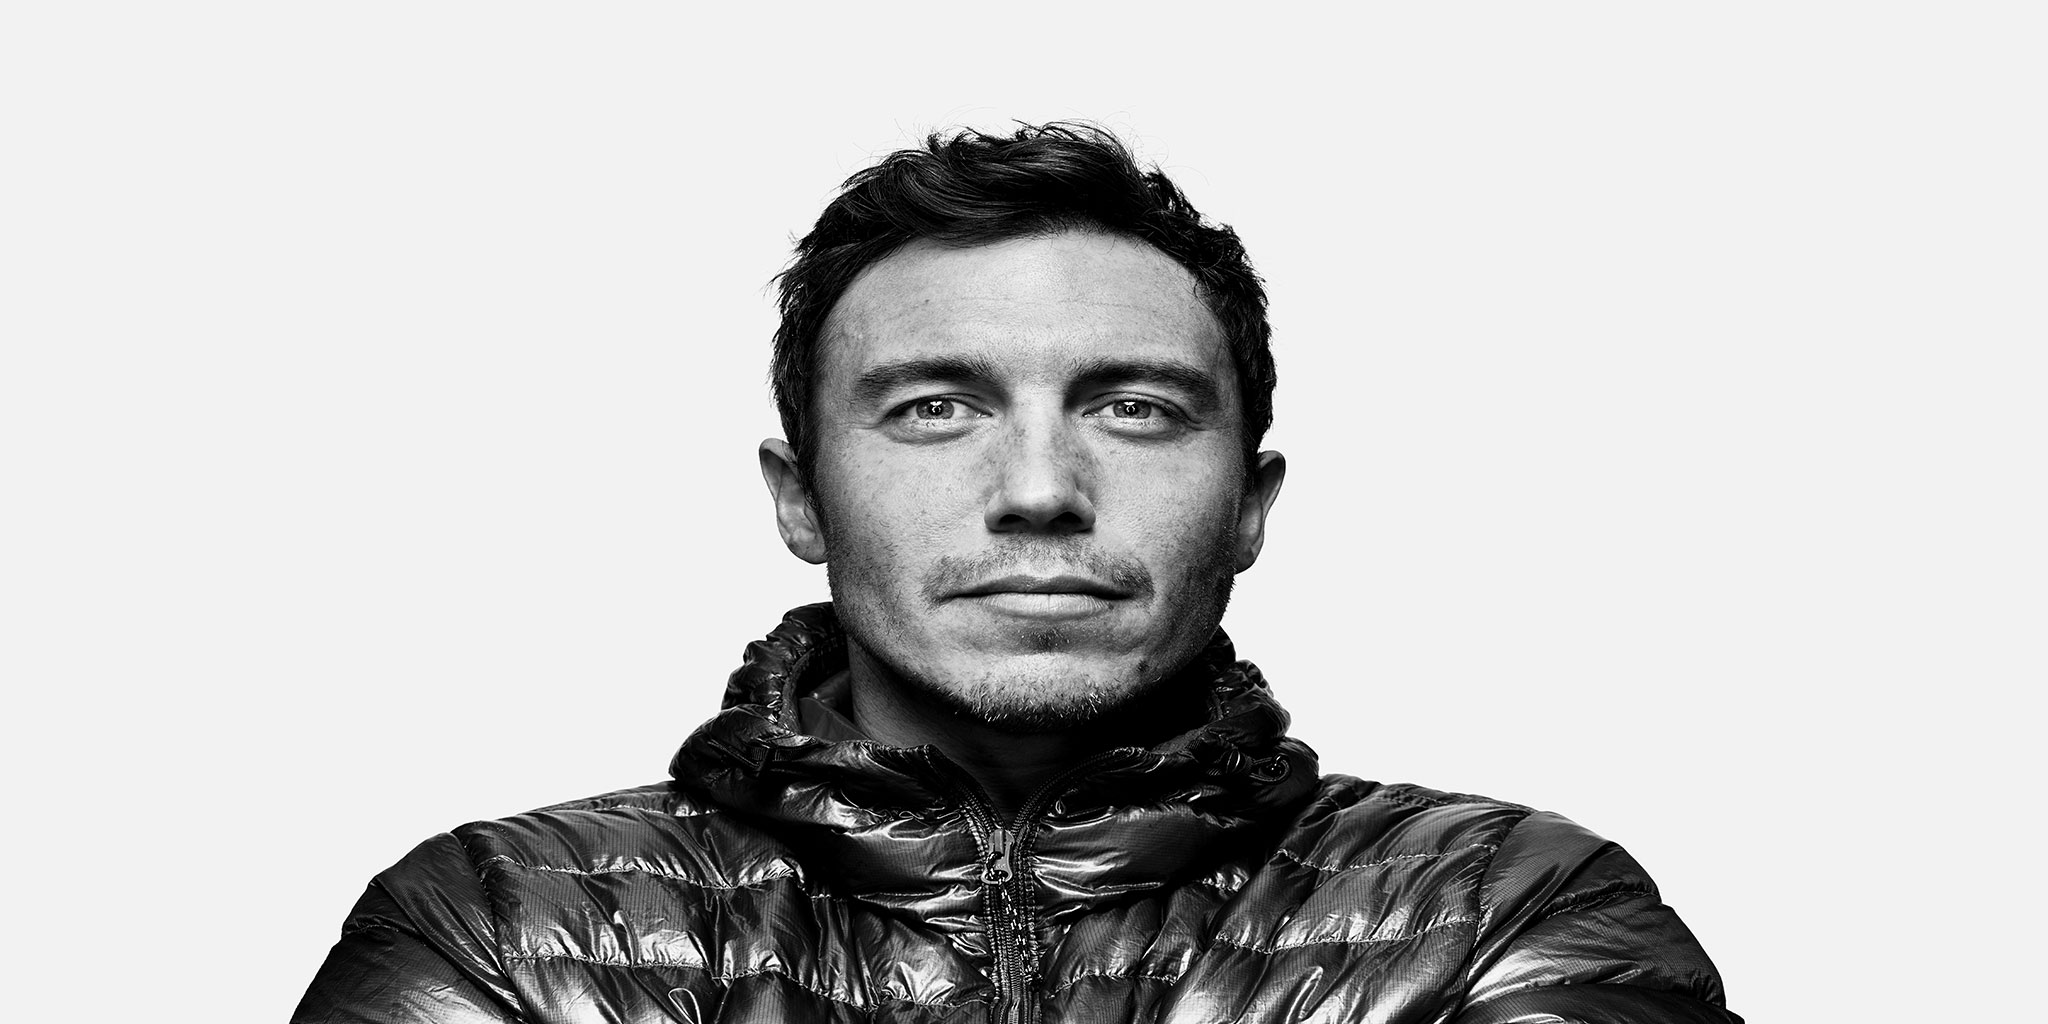
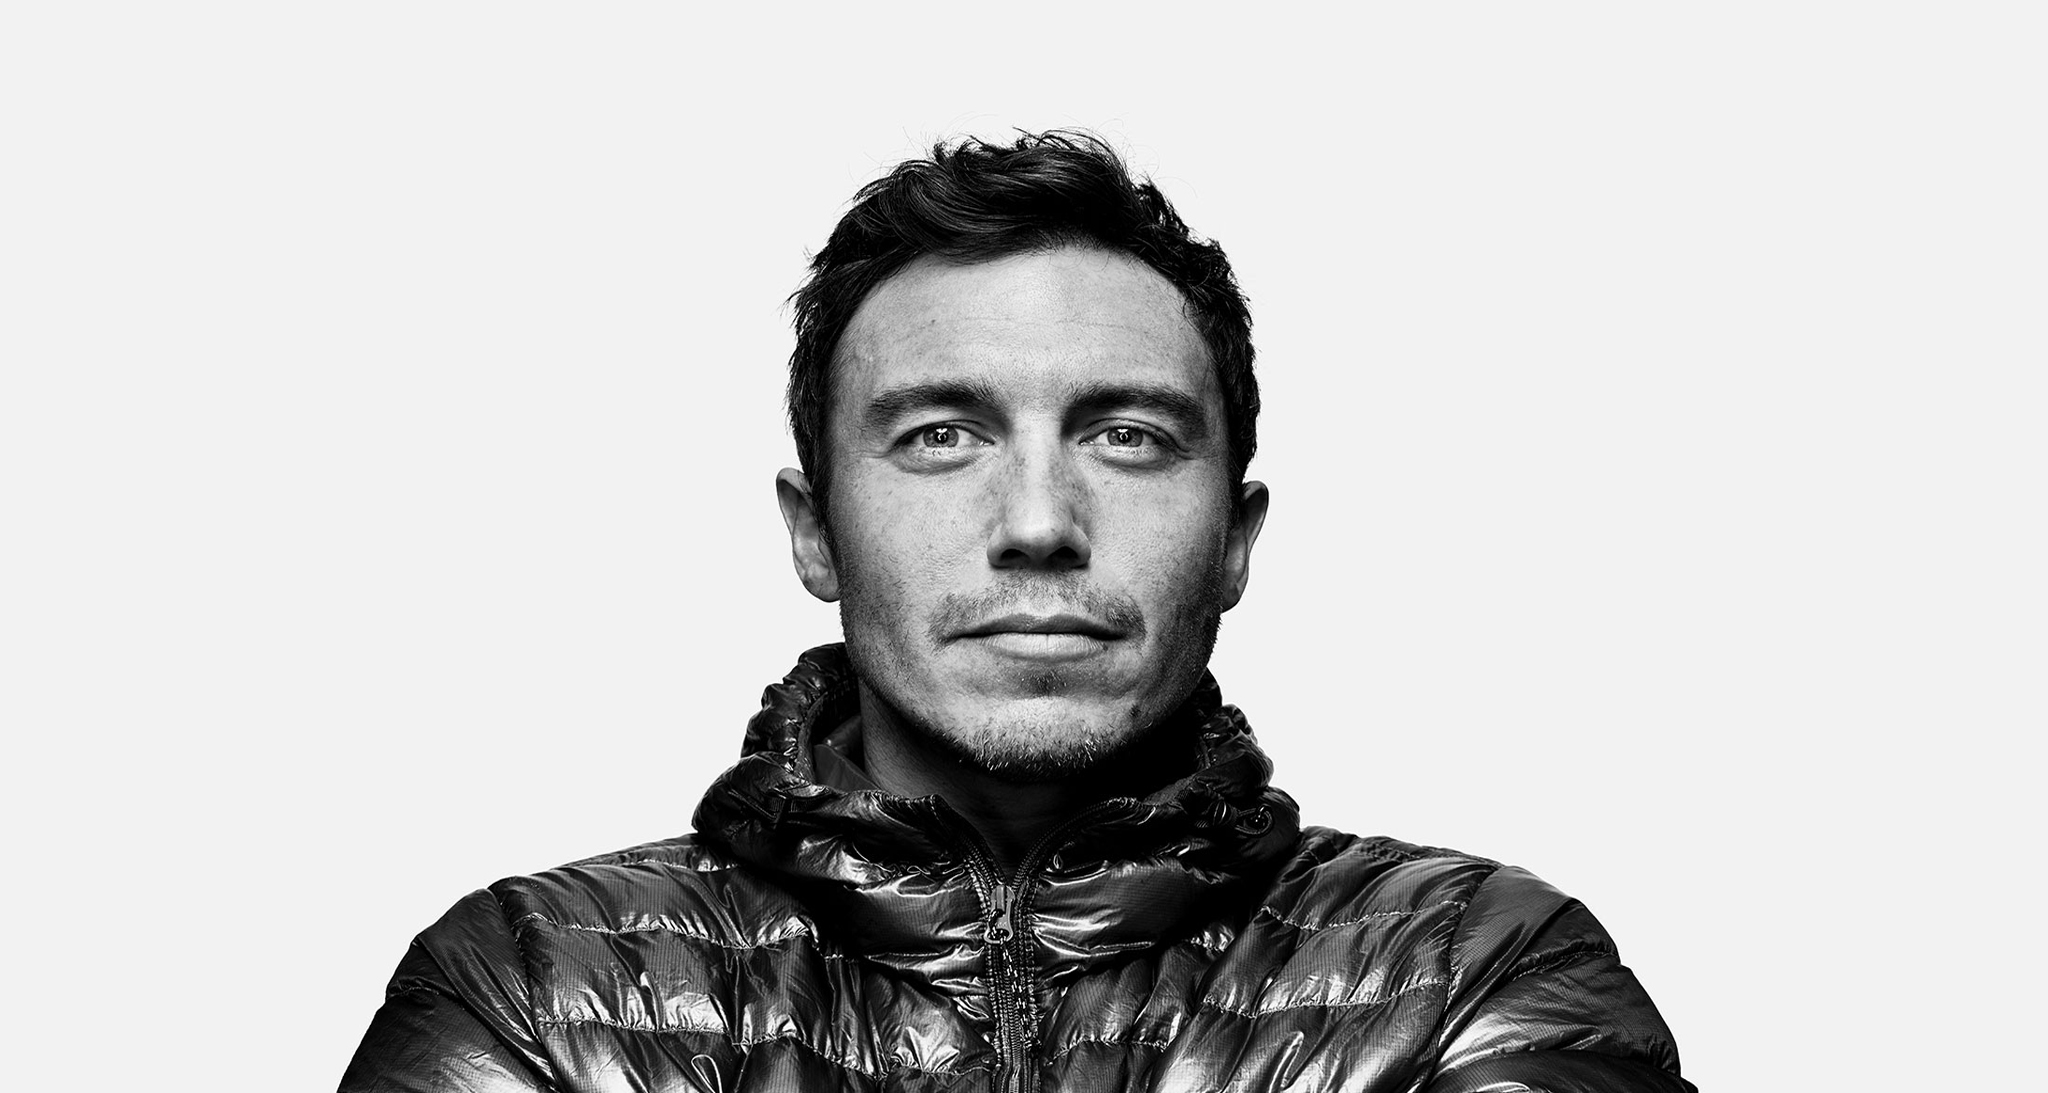
people resize

Changed region(s): [[0.125, 0.0938, 0.8438, 1.0]]

diff --git a/c_exam/coding/js/src/macbook.js b/c_exam/coding/js/src/macbook.js
@@ -25,7 +25,7 @@
 
 // #retinaDisplay
 	var retinaDisplay     = $('#retinaDisplay');
-	var retinaImg         = $('.retina_image');
+	var retinaImg         = retinaDisplay.find('.retina_image');
 	var people            = retinaImg.find('.people');
 	var artwork           = retinaImg.find('.artwork');
 
@@ -95,7 +95,7 @@ var secondScrollStart = 850;
 	for( var i=0; i < macbookDl.length; i++ ){
 		dlOffset[i] = macbookDl.eq(i).offset().top;
 	}
-	console.log(dlOffset);
+	// console.log(dlOffset);
 
 	win.on('scroll', function(){
 		var winScroll = $(this).scrollTop();
@@ -130,15 +130,40 @@ var secondScrollStart = 850;
 	retinaImg.height(winH);
 	
 	var retinaImgOffset = retinaImg.offset().top;
+	var retinaImgWidth = retinaImg.outerWidth();
+	var winWidth       = win.outerWidth();
+	var retinaImgPercent = retinaImgWidth / winWidth * 100;
+	// console.log(retinaImgPercent);
+	retinaImg.css({width: retinaImgPercent + 'vw'});
+	var rep = 0;
+	var rep2 = 100;
+	var rep3 = 0;
 
 	win.on('scroll', function(){
 		var winScroll = $(this).scrollTop();
+		var winScrollPlus = winScroll + winHPart;
+		
+		if(winScrollPlus >= retinaImgOffset){
+			rep = (winScrollPlus - retinaImgOffset) / winH * 30;
+			var peopleWp = retinaImgPercent + rep;
+			if(peopleWp < 100){retinaImg.css({width:peopleWp + 'vw'});	}
+			else{
+				retinaImg.css({width:100 + 'vw'});
+			}
+		}
 
 		if(winScroll >= retinaImgOffset){
+			rep2 = 120 - (winScroll - retinaImgOffset) / winH * 100;
 			retinaImg.css({position:'fixed', top:0});
-		}else{
-			retinaImg.css({position:'relative', top:'auto'});
-		}
+			people.css({height:rep2 + '%'});
+			
+		}else{retinaImg.css({position:'relative', top:'auto'});	}
+
+		// if(rep2 <= 0){
+		// 	rep3 = winScrollPlus - retinaImgOffset / winH * 30;
+		// 	console.log( rep3 )
+		// 	// retinaImg.css({width:, height:});
+		// }
 
 	});
 	// ----------------------------------------------------------------------

diff --git a/c_exam/coding/css/mac/macbook.css b/c_exam/coding/css/mac/macbook.css
@@ -1,4 +1,10 @@
 @import url("https://fonts.googleapis.com/css2?family=Noto+Sans+KR:wght@400;500;700;900&display=swap");
+body {
+  width: 100%;
+  overflow-y: auto;
+  overflow-x: hidden;
+}
+
 #wrap {
   width: 1400px;
   height: auto;
@@ -172,10 +178,9 @@
 }
 #retinaDisplay .retina_image {
   position: relative;
-  left: 0;
-  right: 0;
-  margin: auto;
+  left: 50%;
   z-index: 500;
+  transform: translateX(-50%);
   width: 1400px;
   height: auto;
   background-color: #acf;
@@ -185,15 +190,23 @@
   top: 0;
   left: 0;
   width: 100%;
+  max-width: 100vw;
   height: 100%;
 }
 #retinaDisplay .retina_image > div.people {
   z-index: 10;
-  background-color: #0fc;
+  background-image: url("../../img/mac_other/retina_people.jpg");
+  background-color: #f2f2f2;
+  background-repeat: no-repeat;
+  background-position: 50% 0;
+  background-size: auto;
 }
 #retinaDisplay .retina_image > div.artwork {
   z-index: 5;
-  background-color: #a8c;
+  background-image: url("../../img/mac_other/retins_bg_img.jpg");
+  background-repeat: no-repeat;
+  background-position: 50% 0;
+  background-size: auto;
 }
 #retinaDisplay p {
   width: 1050px;

diff --git a/c_exam/coding/scss/mac/macbook.scss b/c_exam/coding/scss/mac/macbook.scss
@@ -2,6 +2,12 @@
 
 @import "./setting";
 
+body{
+	width:100%; 
+	overflow-y:auto;
+	overflow-x:hidden;
+}
+
 #wrap{
 	width: $baseWidth; height:auto; min-height:3000px; 
 	margin:auto; padding-top:90px;
@@ -104,14 +110,26 @@
 	}
 
 	.retina_image{
-		position: relative; left: 0; right: 0; margin:auto; z-index:500;
+		position: relative; left: 50%; z-index:500;
+		transform:translateX(-50%);
 		width:$baseWidth; height:auto; 
 		background-color: #acf;
 		>div{
 			position:absolute; top: 0; left: 0;
-			width:100%; height:100%;
-			&.people{z-index:10; background-color: #0fc;}
-			&.artwork{z-index:5; background-color: #a8c;}
+			width:100%; max-width:100vw; height:100%;
+			&.people{z-index:10;
+				background-image: url('../../img/mac_other/retina_people.jpg');
+				background-color: #f2f2f2;
+				background-repeat: no-repeat;
+				background-position: 50% 0;
+				background-size: auto;
+			}
+			&.artwork{z-index:5;
+				background-image: url('../../img/mac_other/retins_bg_img.jpg');
+				background-repeat: no-repeat;
+				background-position: 50% 0;
+				background-size: auto;
+			}
 		}
 	}
 

diff --git a/c_exam/coding/scss/mac/_setting.scss b/c_exam/coding/scss/mac/_setting.scss
@@ -18,3 +18,4 @@ $black:#202020;
 		font-size: 2rem; color:lighten($black, 35%); font-weight: 700;
 		word-break:keep-all;
 }
+
